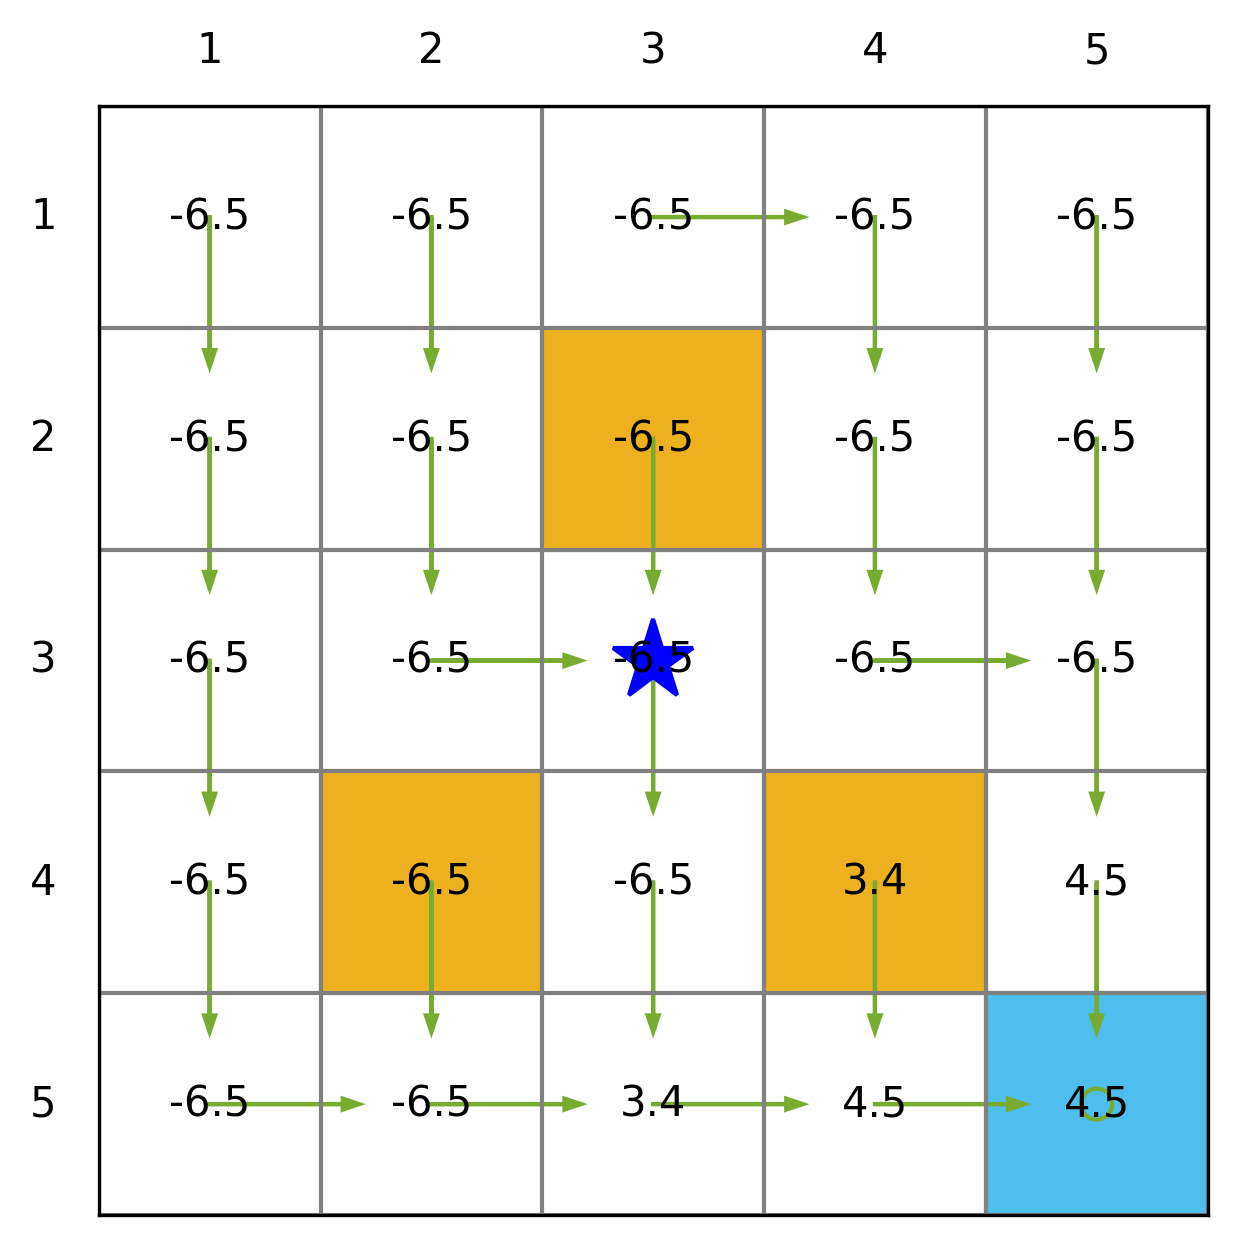
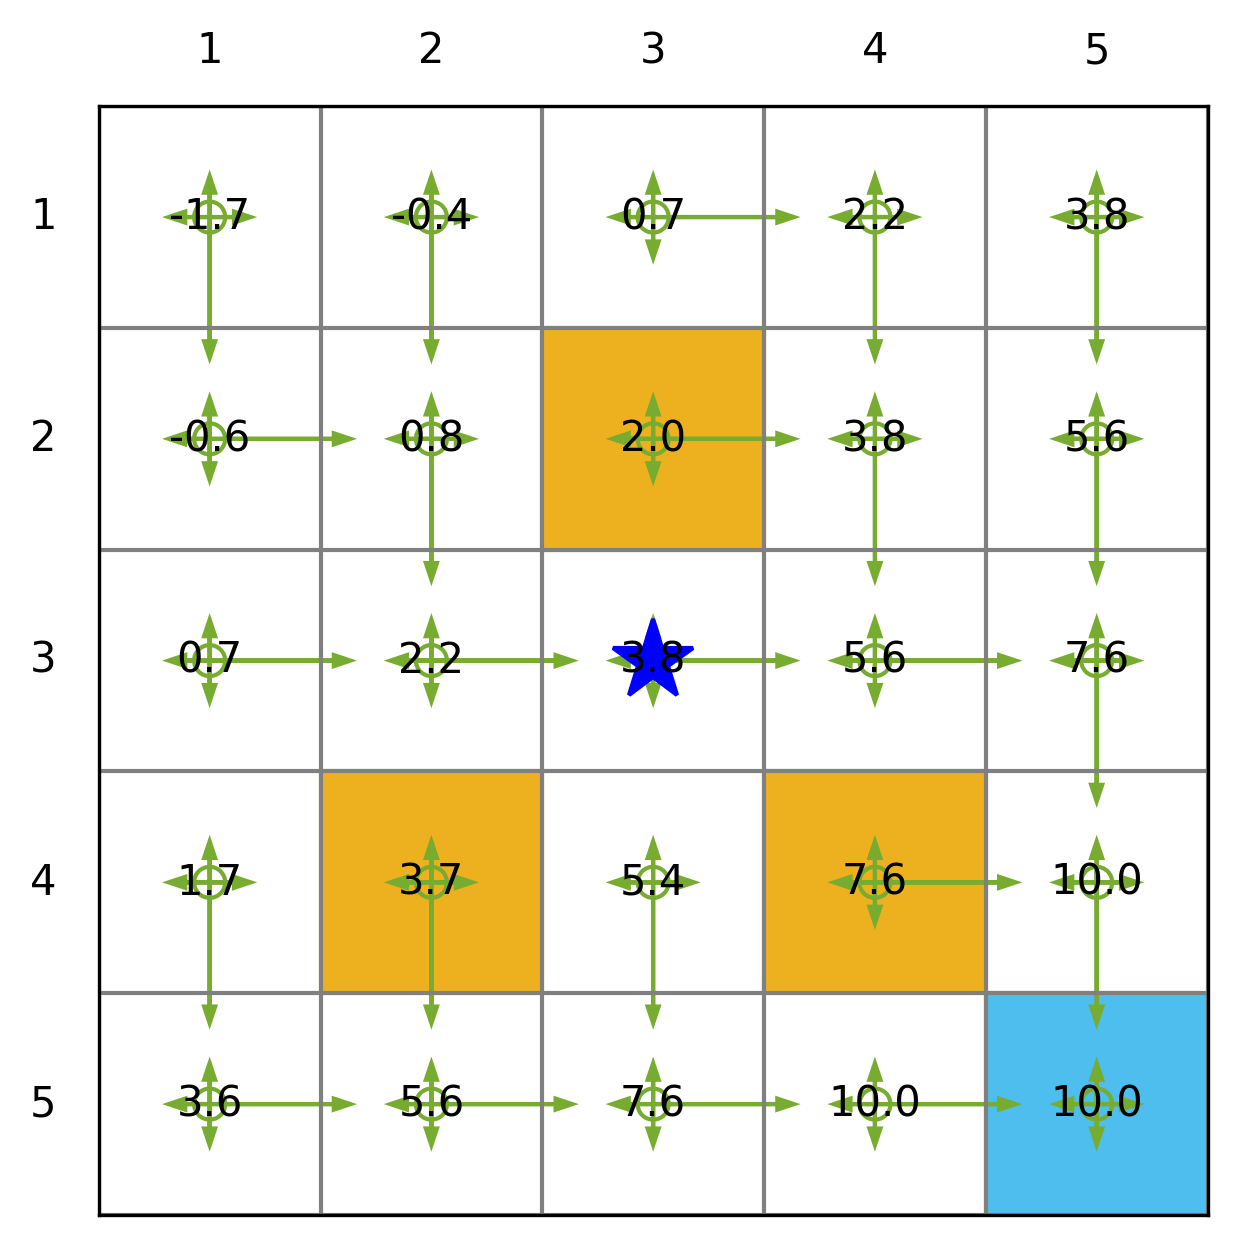
完成蒙特卡洛算法实现

diff --git a/5_1_1_mc_basic.py b/5_1_1_mc_basic.py
@@ -1,0 +1,160 @@
+import sys
+sys.path.append("..")
+from src.grid_world import GridWorld # 假设 GridWorld 类在 src 目录下
+import numpy as np
+import matplotlib.pyplot as plt
+
+def policy_iteration_algorithm(env, gamma=0.9, num_episodes=10, episode_length=10):
+    """
+    改进的策略迭代算法，每次评估完一个状态的价值后立即更新该状态的策略.
+    这种方法被称为"广义策略迭代"的一种形式，它在评估-改进周期中交替进行，
+    但不是等待完全的策略评估，而是在单次状态遍历后就进行策略更新，
+    这通常能加速收敛。
+
+    Args:
+        env: GridWorld 环境.
+        gamma: 折扣因子.
+        num_episodes: 每个状态-动作对进行采样的episode数量.
+        episode_length: 每个episode的最大步数.
+
+    Returns:
+        policy: 最优策略.
+        V: 最优价值函数.
+    """
+    n_states = env.num_states
+    n_actions = len(env.action_space)
+    
+    # 1. 初始化策略和Q值
+    policy_matrix = np.zeros((n_states, n_actions))
+    for s_idx in range(n_states):
+        policy_matrix[s_idx, 0] = 1.0  # 初始时，对每个状态选择第一个动作
+    
+    action_values = np.zeros((n_states, n_actions))
+
+    iteration = 0
+    while True:
+        iteration += 1
+        print(f"Policy Iteration - Iteration: {iteration}")
+        policy_stable = True
+
+        # 遍历每个状态
+        for s_idx in range(n_states):
+            old_action_idx = np.argmax(policy_matrix[s_idx])
+            
+            initial_x = s_idx % env.env_size[0]
+            initial_y = s_idx // env.env_size[0]
+            initial_state_tuple = (initial_x, initial_y)
+
+            # 为状态 s 评估所有动作的价值 Q(s,a)
+            for a_idx in range(n_actions):
+                first_action_to_take = env.action_space[a_idx]
+                
+                returns_sum_sa = 0
+                for _ in range(num_episodes):
+                    env.reset()
+                    env.agent_state = initial_state_tuple
+                    
+                    current_rewards = []
+                    
+                    # 第一步: 执行选定的 first_action_to_take
+                    current_env_state, reward, done, _ = env.step(first_action_to_take)
+                    current_rewards.append(reward)
+                    
+                    # 后续步骤: 遵循当前策略 policy_matrix
+                    for _ in range(1, episode_length):
+                        if done:
+                            break
+                        
+                        current_s_idx_for_policy = current_env_state[0] + current_env_state[1] * env.env_size[0]
+
+                        action_probs = policy_matrix[current_s_idx_for_policy]
+                        action_from_policy_idx = np.random.choice(n_actions, p=action_probs)
+                        action_from_policy = env.action_space[action_from_policy_idx]
+                        
+                        next_env_state, reward, done, _ = env.step(action_from_policy)
+                        current_rewards.append(reward)
+                        current_env_state = next_env_state
+                    
+                    # 计算此 episode 的折扣回报 G
+                    G = 0
+                    for r_val in reversed(current_rewards):
+                        G = r_val + gamma * G
+                    
+                    returns_sum_sa += G
+                
+                action_values[s_idx, a_idx] = returns_sum_sa / num_episodes
+            
+            # 策略改进: 为状态 s 找到最佳动作并立即更新策略
+            best_action_idx = np.argmax(action_values[s_idx])
+            
+            if old_action_idx != best_action_idx:
+                policy_stable = False
+            
+            # 更新策略
+            policy_matrix[s_idx, :] = 0.0
+            policy_matrix[s_idx, best_action_idx] = 1.0
+
+        # 检查策略是否在整个状态空间上稳定
+        if policy_stable:
+            print(f"Policy converged after {iteration} iterations.")
+            break
+    
+    # V*(s) = max_a Q*(s,a)
+    V = np.max(action_values, axis=1)
+    return policy_matrix, V
+
+def show_policy(env, V, policy_matrix):
+    """
+    可视化价值函数和策略. (复用自 value_iteration)
+    """
+    env.render(animation_interval=0.01) 
+    env.add_state_values(V)
+    env.add_policy(policy_matrix)
+    plt.draw() 
+    plt.savefig("mc_basic_visualization.png", dpi=300, bbox_inches='tight')
+
+
+
+def simulate(env, policy_matrix, max_steps=100):
+    """
+    从起点开始，根据策略模拟代理的路径. (复用自 value_iteration)
+    """
+    print("Starting simulation with the learned policy...")
+    state, _ = env.reset() 
+    env.render() 
+
+    for step in range(max_steps):
+        x, y = state
+        s_idx = x + y * env.env_size[0]
+        
+        action_idx = 0 # 默认动作
+        if np.sum(policy_matrix[s_idx]) > 0: 
+            action_idx = np.argmax(policy_matrix[s_idx]) # 确定性策略：选择概率最高的动作
+        
+        action = env.action_space[action_idx]
+
+        next_state, reward, done, _ = env.step(action)
+        env.render() 
+        
+        state = next_state
+        
+        if done:
+            print(f"Target reached in {step + 1} steps!")
+            break
+    else: 
+        print(f"Simulation ended after {max_steps} steps without reaching the target.")
+
+if __name__ == '__main__':
+    env = GridWorld() # 使用默认参数初始化
+
+    optimal_policy, optimal_V = policy_iteration_algorithm(env, gamma=0.9)
+    # 重置环境并可视化
+    env.reset() 
+    show_policy(env, optimal_V, optimal_policy)
+    
+    # 模拟路径
+    simulate(env, optimal_policy, max_steps=50)
+
+    print("Algorithm finished. Close the plot window to exit.")
+    plt.ioff() 
+    plt.show()

diff --git a/5_3_mc_epsilon_greddy.py b/5_3_mc_epsilon_greddy.py
@@ -4,17 +4,18 @@ from src.grid_world import GridWorld # 假设 GridWorld 类在 src 目录下
 import numpy as np
 import matplotlib.pyplot as plt
 
-def policy_iteration_algorithm(env, gamma=0.9, num_episodes=8000, episode_length=1000):
+def policy_iteration_algorithm(env, gamma=0.9, num_episodes=8000, episode_length=1000, epsilon=0.1):
     """
-    使用 Exploring Starts 的蒙特卡洛控制算法 (Every-visit MC).
+    使用 ε-greedy 策略的蒙特卡洛控制算法 (Every-visit MC).
     对每一个 episode, 从一个随机的(状态, 动作)对开始, 然后遵循当前策略。
-    episode 结束后，从后向前遍历，更新所有访问过的(状态, 动作)对的价值，并立即改进策略。
+    episode 结束后，从后向前遍历，更新所有访问过的(状态, 动作)对的价值，并使用 ε-greedy 策略改进。
 
     Args:
         env: GridWorld 环境.
         gamma: 折扣因子.
         num_episodes: 每个状态-动作对进行采样的episode数量.
         episode_length: 每个episode的最大步数.
+        epsilon: 探索概率，控制随机选择动作的概率。
 
     Returns:
         policy: 最优策略.
@@ -24,10 +25,8 @@ def policy_iteration_algorithm(env, gamma=0.9, num_episodes=8000, episode_length
     n_actions = len(env.action_space)
 
     # 1. 初始化
-    # 策略可以是任意确定性策略
-    policy_matrix = np.zeros((n_states, n_actions))
-    for s_idx in range(n_states):
-        policy_matrix[s_idx, 0] = 1.0  # 初始时，对每个状态选择第一个动作
+    # 初始策略为均匀随机策略
+    policy_matrix = np.ones((n_states, n_actions)) / n_actions
 
     action_values = np.zeros((n_states, n_actions))
     returns_sum = np.zeros((n_states, n_actions))
@@ -66,8 +65,9 @@ def policy_iteration_algorithm(env, gamma=0.9, num_episodes=8000, episode_length
 
             current_s_idx = current_env_state[0] + current_env_state[1] * env.env_size[0]
 
-            # 从确定性策略中选择动作
-            action_from_policy_idx = np.argmax(policy_matrix[current_s_idx])
+            # 直接从策略矩阵中采样动作
+            action_from_policy_idx = np.random.choice(n_actions, p=policy_matrix[current_s_idx])
+            
             action_from_policy = env.action_space[action_from_policy_idx]
             
             next_env_state, reward, done, _ = env.step(action_from_policy)
@@ -86,10 +86,10 @@ def policy_iteration_algorithm(env, gamma=0.9, num_episodes=8000, episode_length
             returns_count[s_t, a_t] += 1
             action_values[s_t, a_t] = returns_sum[s_t, a_t] / returns_count[s_t, a_t]
             
-            # 更新策略 (策略改进)
+            # 更新策略 (ε-greedy 策略改进)
             best_a_idx = np.argmax(action_values[s_t])
-            policy_matrix[s_t, :] = 0.0
-            policy_matrix[s_t, best_a_idx] = 1.0
+            policy_matrix[s_t, :] = epsilon / n_actions  # 探索概率均匀分配
+            policy_matrix[s_t, best_a_idx] += 1 - epsilon  # 利用概率集中在最优动作
 
     print("Finished training.")
     # V*(s) = max_a Q*(s,a)
@@ -140,7 +140,7 @@ def simulate(env, policy_matrix, max_steps=100):
 if __name__ == '__main__':
     env = GridWorld() # 使用默认参数初始化
 
-    optimal_policy, optimal_V = policy_iteration_algorithm(env, gamma=0.9)
+    optimal_policy, optimal_V = policy_iteration_algorithm(env, gamma=0.9, epsilon=0.1)
     # 重置环境并可视化
     env.reset() 
     show_policy(env, optimal_V, optimal_policy)
